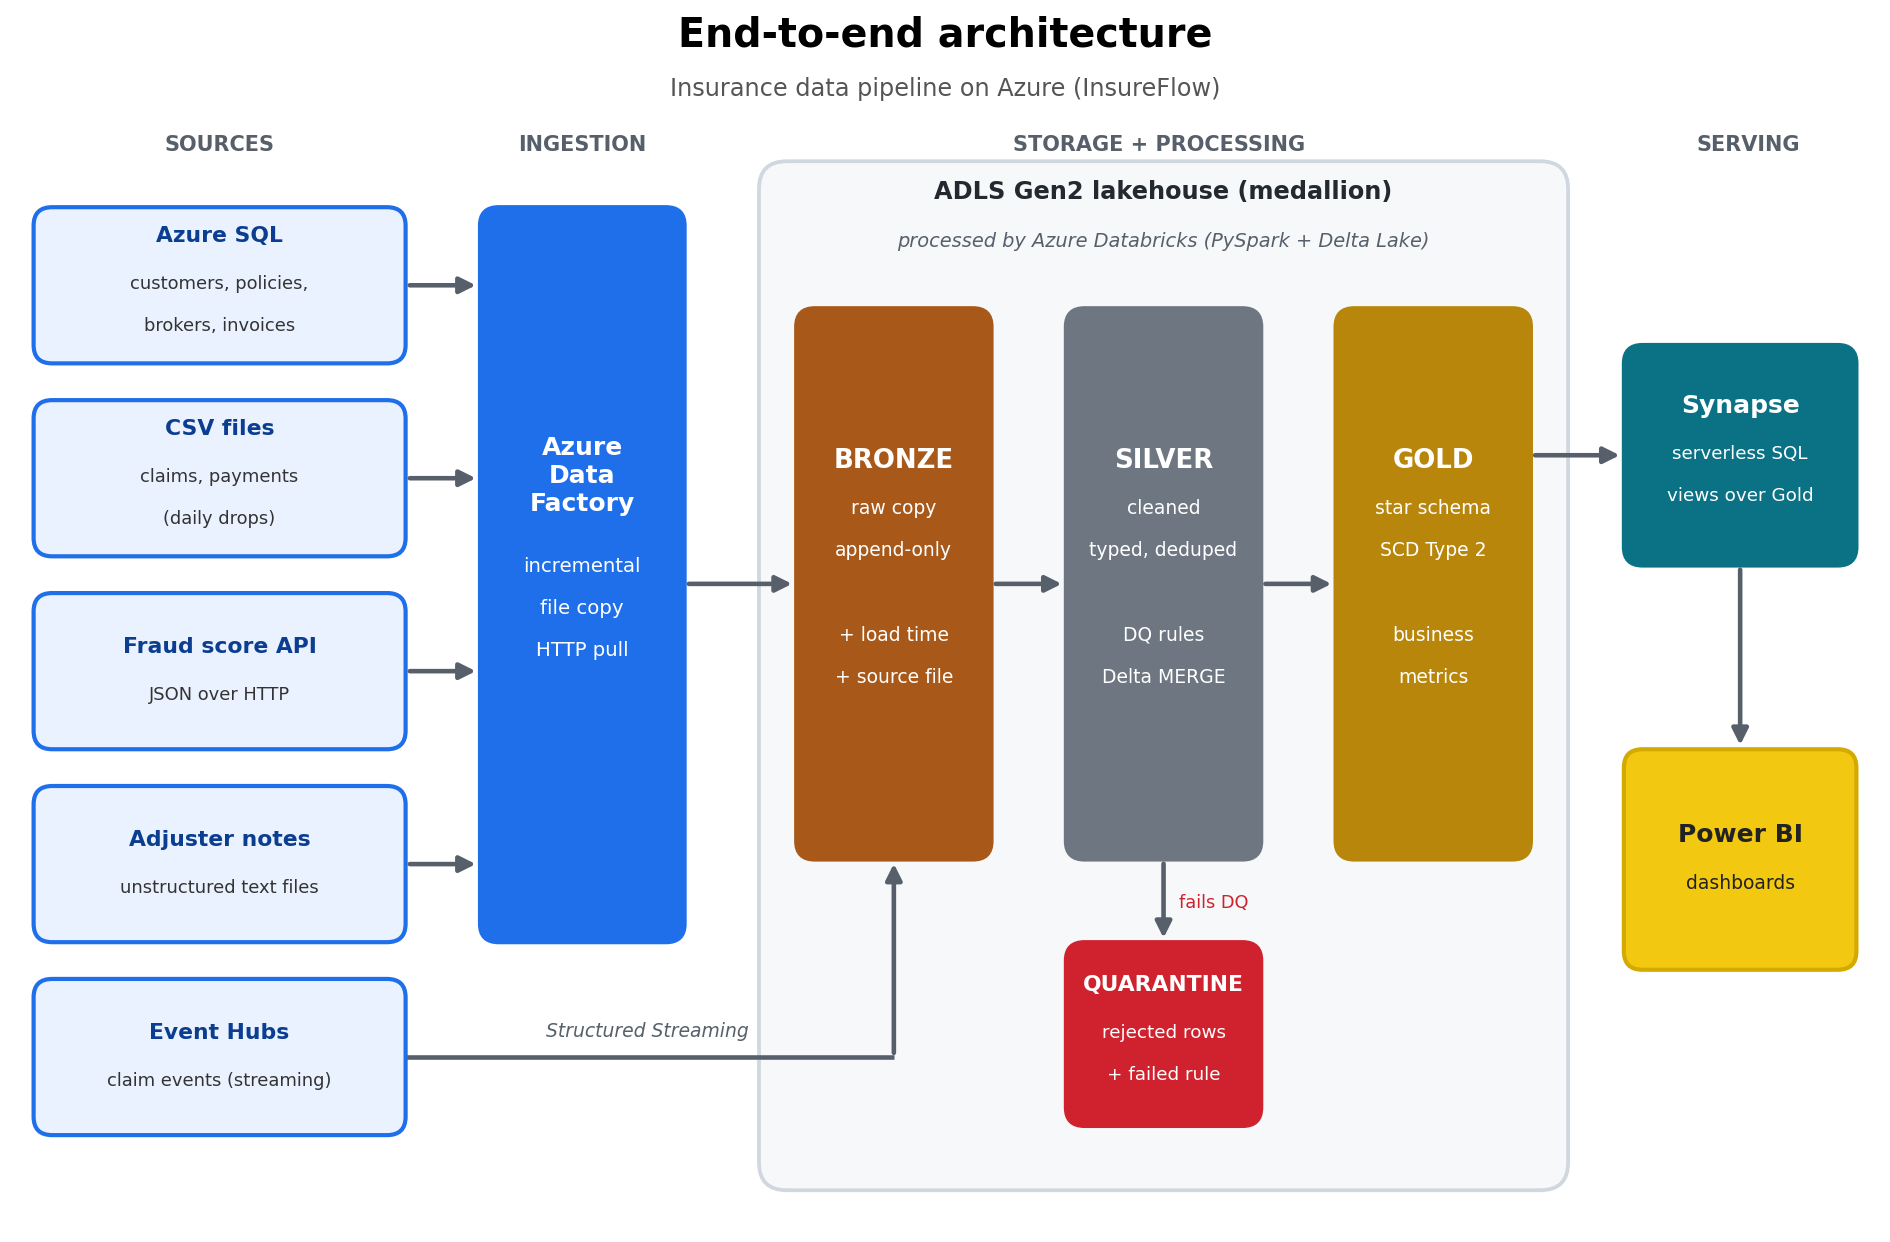
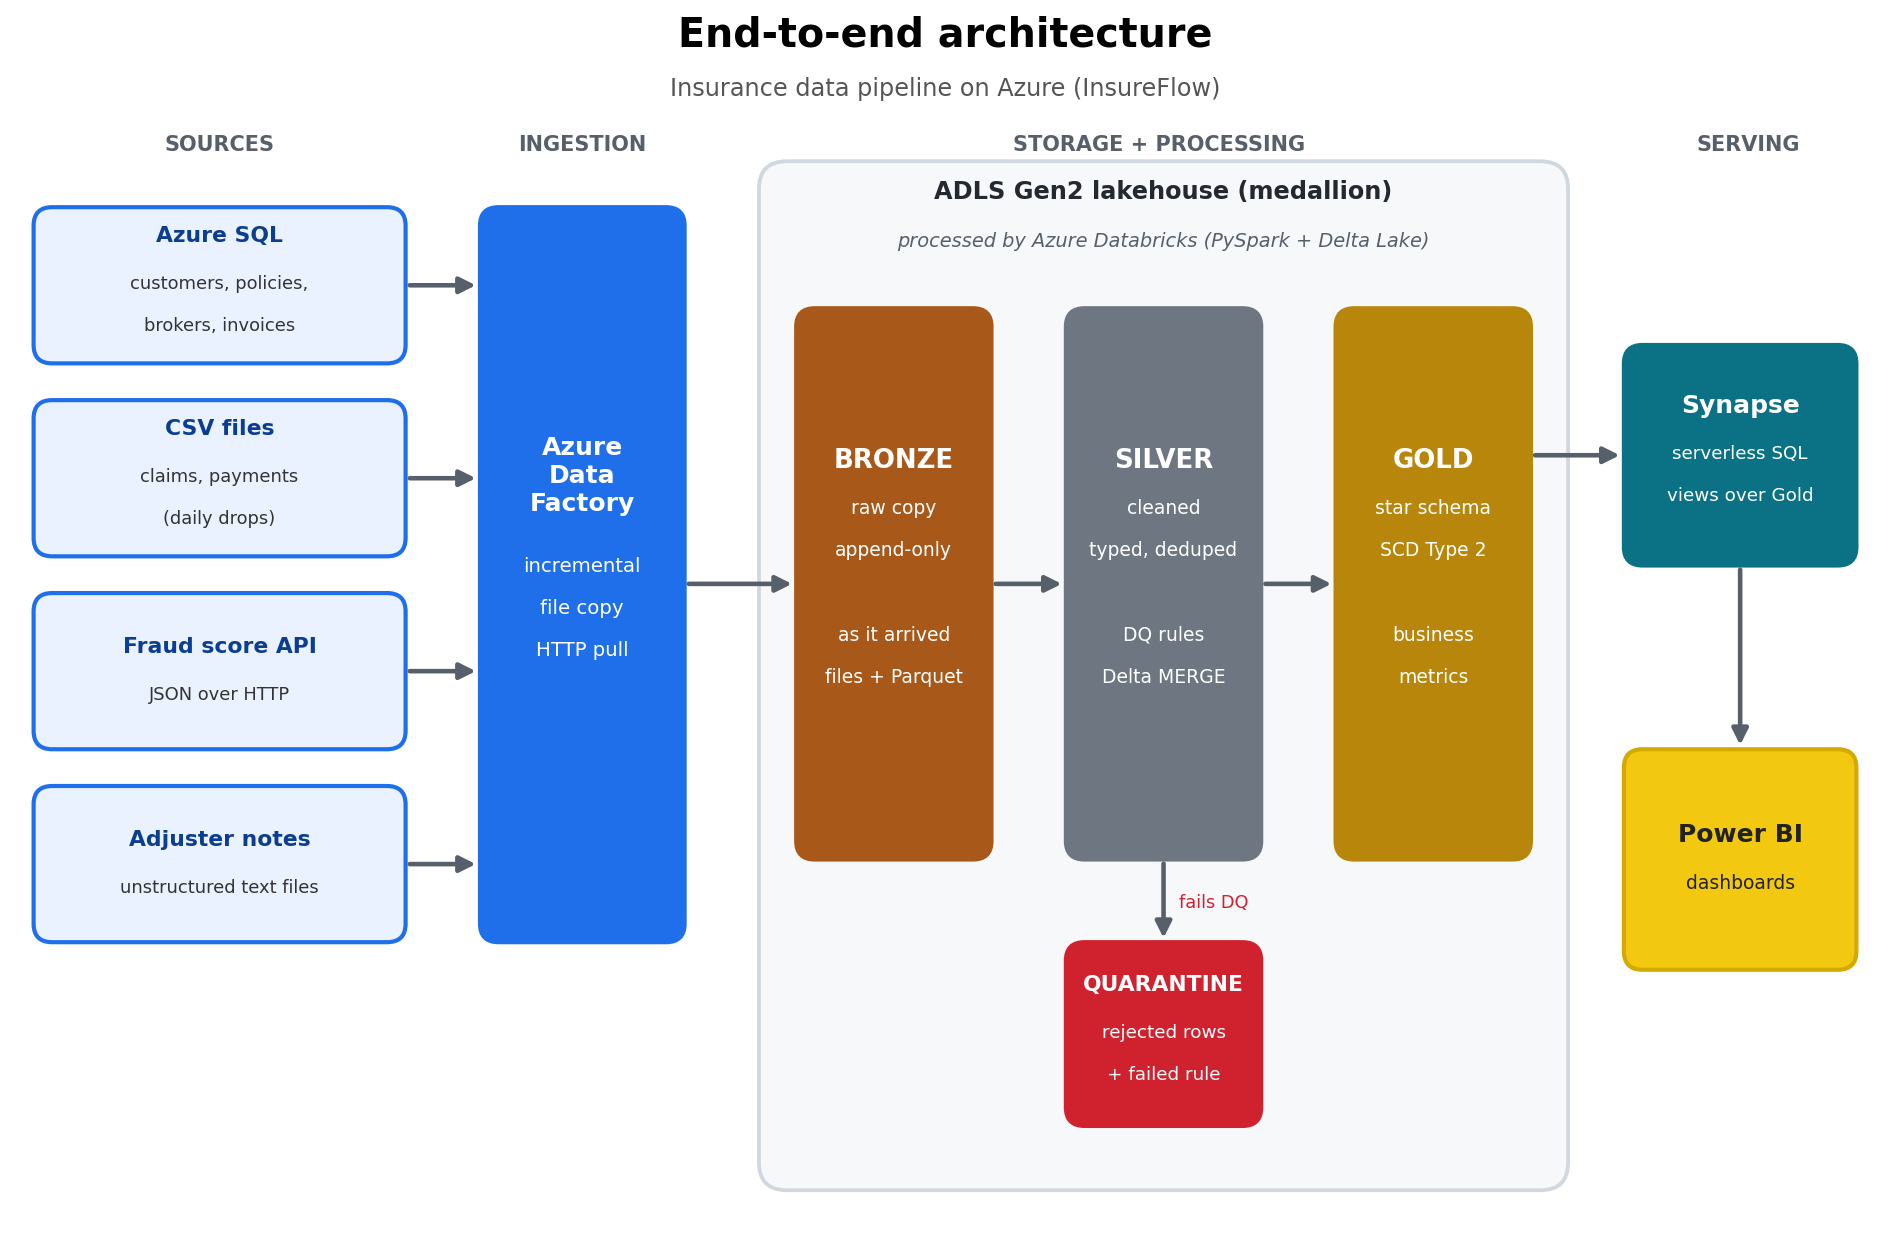
Upadated readme and runbook

diff --git a/README.md b/README.md
@@ -1,131 +1,185 @@
-# InsureFlow: End-to-End Insurance Data Pipeline on Azure
+# Insurance Lakehouse: End-to-End Insurance Data Pipeline on Azure
 
-*Medallion lakehouse with batch and streaming ingestion, data quality checks, and a star schema.*
+Medallion lakehouse with incremental loading, data quality checks, SCD Type 2, and a star schema, built on Azure Data Factory, Databricks, Delta Lake, and Synapse.
 
-An end-to-end data engineering project that ingests insurance data from structured, semi-structured, streaming, and unstructured sources into a medallion lakehouse on Azure, applies data quality rules and slowly changing dimensions, and serves business metrics (loss ratio, settlement time, collection rate, fraud risk).
+All data is **synthetic**. It is modeled on the kinds of tables and problems common in insurance.
 
-All data is **synthetic**. It is modeled on the kinds of tables and problems common in the insurance domain and contains no real company data.
+## Problem statement
 
-## Business problem
+A mid-size insurer sells auto, home, health, and life policies through brokers. Policy and billing data lives in a policy admin database, claims and payments arrive as daily files, fraud scores come from a third-party API, and adjusters write free-text notes.
 
-Claims, finance, and fraud teams rely on manual, inconsistent reports. This platform gives them one trusted, daily-refreshed source. Details in [`docs/business\_requirements.md`](docs/business_requirements.md).
+Each team (claims, finance, fraud) builds its own Excel reports from these separate sources. The data is duplicated, inconsistent, and often wrong (invalid dates, orphan records, claims approved for more than claimed). Reports disagree, take days to produce, and nobody can say how many records were bad or why.
+
+Goal: one automated, trusted pipeline that ingests all sources daily, cleans and validates them, records every rejected record with its reason, and serves business metrics: loss ratio, settlement time, collection rate, invoice aging, and fraud risk.
+
+Full requirements: [`docs/business_requirements.md`](docs/business_requirements.md)
 
 ## Architecture
 
-!\[Architecture](docs/images/architecture.png)
+![Architecture](docs/images/architecture.png)
 
-More diagrams (medallion detail, streaming, daily run) in [`docs/architecture.md`](docs/architecture.md).
+More diagrams (medallion detail, daily run) in [`docs/architecture.md`](docs/architecture.md).
 
-## Data model
+## Data sources
 
-Gold layer star schema (full source model and column details in [`docs/data\_model.md`](docs/data_model.md)):
+| Source | Type | How it is ingested | Approx. initial volume |
+|---|---|---|---|
+| Azure SQL: customers, policies, brokers, invoices | structured | ADF; incremental with a watermark on `last_modified` | 5,050 / 8,000 / 50 / 89,000 rows |
+| Claims and payments | structured, daily CSV files | ADF file copy, one file per day | 3,200 / 88,000 rows |
+| Fraud scores | semi-structured JSON | ADF HTTP copy (a mock API served from GitHub) | 3,000 records |
+| Adjuster notes | unstructured text files | ADF folder copy, parsed in Databricks | 800 files |
 
-!\[Gold star schema](docs/images/star\_schema.png)
+Simulated daily changes:1 to 5 July 2025.The date used for aging and open-claim age is 5 July 2025.
 
 ## Tech stack
 
-|Layer|Technology|
-|-|-|
-|Sources|Azure SQL, CSV files, REST API (JSON), Event Hubs, text files|
-|Storage|ADLS Gen2, Delta Lake|
-|Ingestion / orchestration|Azure Data Factory|
-|Transformation|Databricks (PySpark)|
-|Warehouse / serving|Azure Synapse (serverless SQL)|
-|Reporting|Power BI|
-|Security / monitoring|Key Vault, Azure Monitor|
+| Layer | Technology |
+|---|---|
+| Storage | ADLS Gen2, Delta Lake |
+| Ingestion / orchestration | Azure Data Factory |
+| Transformation | Azure Databricks (PySpark, Spark SQL) |
+| Serving | Azure Synapse serverless SQL |
+| Reporting | Power BI |
+| Authentication and Access | Managed Identity/Service Principal |
+| Secrets | Azure Key Vault (Databricks secret scope) |
+| Source control | GitHub |
 
 ## What this project demonstrates
 
-* Multi-source ingestion: database, files, and HTTP API
-* Incremental loading with a watermark, and idempotent re-runs
-* Medallion architecture with Delta `MERGE` for records that arrive again with new status
-* Data quality framework with a quarantine table and audit trail
-* SCD Type 2 and a dimensional (star schema) model
-* Handling schema drift without pipeline failure
-* Unstructured data: parsing adjuster notes (free text) into features such as red-flag keywords and amounts, and comparing them with the fraud API score
-* Streaming add-on: claim events via Event Hubs and Structured Streaming
-* Cost-aware cloud design
+- Ingestion from four kinds of sources: database, files, HTTP API, and unstructured text
+- Incremental loading with a watermark stored in a control table, advanced only after a successful copy
+- Medallion architecture: Bronze (raw as it arrived), Silver (clean), Gold (business model)
+- Delta MERGE where the newest version wins, so late data and re-runs are safe
+- A data quality framework with two kinds of rule: reject rules send a row to a Quarantine table with the failed rule, flag rules keep the row and record the issue
+- SCD Type 2 on customer, built from a history table, with point-in-time joins from the fact tables
+- A constellation schema : three fact tables with conformed dimensions
+- Schema drift handled on day 5, when the claims file gained an extra column
+- Unstructured data turned into features (amounts, police report, red-flag phrases), and compared against the fraud API score
+- Cost-aware design: serverless SQL, a small auto-stopping cluster
 
-## Repo structure
+## Layers
 
-```
-insurance-azure-data-pipeline/
-├── data\_generator/     synthetic data (history + 7 simulated days)
-├── sql/                Azure SQL DDL and helper scripts
-├── adf/                exported Data Factory pipelines (JSON)
-├── databricks/         notebooks: bronze, silver, gold, streaming, common
-├── synapse/            serverless SQL views
-├── tests/              data quality and unit tests
-└── docs/               architecture, data model, decisions, plan, runbook
-```
+| Layer | What it holds | Key rules |
+|---|---|---|
+| Bronze | Raw copy of every source | Never modified; Parquet for SQL tables, original files for the rest |
+| Silver | Cleaned, typed, deduplicated tables, plus `customers_history`, `_quarantine`, `_audit` | MERGE on the business key; reject and flag rules |
+| Gold | Star schema and business metrics | Rebuilt from Silver each run; SCD Type 2 on customer |
 
-## Key documents
+### Data quality rules (summary)
 
-* [Business requirements](docs/business_requirements.md)
-* [Architecture](docs/architecture.md)
-* [Data model](docs/data_model.md)
-* [Design decisions](docs/decisions.md)
-* [Project plan](docs/project_plan.md)
-* [Runbook](docs/runbook.md)
+| Table | Rejected to Quarantine | Flagged, kept |
+|---|---|---|
+| customers | missing id, date of birth in the future | missing or invalid email, credit score out of range |
+| policies | end date before start date, premium or coverage not above zero | unknown type or status, customer or broker not found |
+| invoices | due date before invoice date, amount not above zero | unknown status, policy not found |
+| claims | approved more than claimed, settled before filed, orphan policy, parent policy quarantined | unknown status, decision without settlement date |
+| payments | orphan invoice, parent invoice quarantined, amount not above zero | partial payment, paid without date |
+| fraud scores | score outside 0 to 1 | risk band does not match score |
+| adjuster notes | no claim id found | claim not in Silver, amount differs from claim, poor note quality |
+
+## Data model
+
+![Gold star schema](docs/images/star_schema.png)
+
+Details and the source-system model: [`docs/data_model.md`](docs/data_model.md)
+
+## Business metrics (defined in `databricks/gold/19_gold_metrics.py` and as Synapse views in `synapse/synapse_views.sql`):
+
+| Metric | Definition |
+|---|---|
+| Loss ratio | approved claim amount divided by premium received, by month and policy type |
+| Average settlement days | days from claim date to settlement, settled claims only |
+| Collection rate | invoices fully paid divided by invoices due; on time means paid within 5 days of the due date |
+| High-risk share | claims with risk band High divided by all claims, by broker region |
+| Open claims | Pending and Under Review claims, with average age in days |
+| Invoice aging | outstanding amount by bucket: Not yet due, 0-30, 31-60, 60+ |
+| Customer location at claim | the city on the claim date, using SCD Type 2 |
+| Note versus API | whether adjuster-note red flags agree with the fraud score |
+
+## How a day is processed
+
+1. Source changes land in Azure SQL, and the day's files are dropped in the lake
+2. `pl_daily_master` (ADF) runs two pipelines: incremental SQL to Bronze (Lookup the watermark, Copy rows changed up to the end of the run date, move the watermark) and daily files to Bronze (claims, payments, notes, fraud scores)
+3. The Silver notebooks are run for that day: clean, check parents, apply rules, quarantine, MERGE
+4. Gold is rebuilt from Silver, and the Gold checks run
+
+Silver and Gold notebooks are run manually after the ADF run (see Limitations).
+
+## Results
+
+- Rows loaded into Bronze (initial load): customers 1,000, policies 1,500, invoices 4,200, claims 600, payments 3,800, notes 900
+- Duplicate customer rows removed in Silver: 37
+- Rows sent to Quarantine (initial load): policies 42, invoices 65, claims 28, payments 51
+- Rows changed per simulated day (customers, policies, invoices, claims): ~25 customers, ~40 policies, ~60 invoices, ~18 claims
+- Days loaded: 5
+- Re-run test: a day was re-run and Silver counts did not change
+- Gold checks: 12 of 12 checks PASS (row counts match Silver, unique keys, one current row per customer, no gaps in customer history)
+- Example of SCD Type 2: customer C00412 moved from Pune to Bengaluru on 2026-11-04, and both rows are kept
+- Metric highlight: Claims loss ratio of 62.4% (total claims paid ÷ total premiums invoiced)
 
 ## Status
 
-\- \[x] Business requirements and data generator
-
-\- \[x] Azure setup (ADLS, Azure SQL, Data Factory) and initial load
-
-\- \[x] Initial ingestion into Bronze (SQL tables, CSV files, adjuster notes, fraud API)
-
-\- \[ ] Incremental loads (watermark) and daily simulation
-
-\- \[ ] Silver layer: cleaning, DQ, quarantine, MERGE
-
-\- \[ ] Gold layer: star schema, SCD2, metrics
-
-\- \[ ] Synapse serving layer
-
-\- \[ ] Streaming add-on
-
-\- \[ ] Power BI dashboardResults
-
-*To be filled with measured numbers after the runs (rows processed, records quarantined, load times).*
-
-
-
-*## Progress: initial ingestion (done)*
-
-
-
-*Four Azure Data Factory pipelines load data into the Bronze layer:*
-
-
-
-*| Pipeline | Source | Destination |*
-
-*| pl\_load\_sql\_initial | CSV files in ADLS | Azure SQL tables |*
-
-*| pl\_ingest\_sql\_to\_bronze | Azure SQL | Bronze (Parquet) |*
-
-*| pl\_ingest\_files\_to\_bronze | Claims, payments, adjuster notes | Bronze (as-is) |*
-
-*| pl\_ingest\_fraud\_api | Fraud score API (HTTP, JSON) | Bronze |*
-
-
-
-*Rows loaded into Azure SQL: brokers 50, customers 5,050, policies 8,000, invoices 89395*
-
-
-
-## Run it yourself
-
-```
-cd data\_generator
-python generate\_insureflow\_data.py
-```
-
-Then follow [`docs/runbook.md`](docs/runbook.md). Deployment steps will be added as each phase is completed.
+- [x] Business requirements and synthetic data generators
+- [x] Azure setup (ADLS Gen2, Azure SQL, Data Factory, Key Vault, Databricks, Synapse)
+- [x] Initial ingestion into Bronze (SQL tables, CSV files, adjuster notes, fraud API)
+- [x] Incremental loading with a watermark (5 of 7 simulated days)
+- [x] Silver layer: cleaning, data quality, quarantine, MERGE
+- [x] Gold layer: star schema, SCD Type 2, metrics
+- [x] Synapse serverless views
+- [X] Power BI dashboard (tick when the screenshot is added)
 
 ## Lessons learned
 
-*Added as the build progresses.*
+- **"Succeeded" does not mean "landed where I expected."** A copy activity wrote to the wrong container and still reported success. I now check the destination, not only the status.
+- **Lake paths are case-sensitive.** `Payments` and `payments` are different folders.
+- **Dynamic content needs careful quoting.** A lost closing quote in an ADF query broke the watermark lookup; building the query with `concat` fixed it.
+- **A watermark needs an upper bound.** Some source rows carried timestamps later than the load date, so using the maximum timestamp would have skipped days. Bounding each run by its run date fixed it.
+- **Joins can silently multiply rows.** Notes were summarised to one row per claim before joining, and every fact table is checked against its Silver row count.
+
+## Limitations
+
+- Synthetic data at a small scale; no real-time
+- Silver and Gold are run manually after the ADF run, and there is no scheduled trigger
+- Adjuster notes are parsed with simple rules (regular expressions and keywords), not a language model
+
+## Future improvements
+
+- Trigger Silver and Gold from Data Factory with a Databricks notebook activity and a schedule
+- Capture new columns automatically instead of ignoring them (schema evolution)
+- Use a language model to analyse adjuster notes
+- Add monitoring alerts, Unity Catalog, and CI/CD
+
+## Repository structure
+
+```
+insurance-azure-data-pipeline/
+├── data_generator/   synthetic data: history, daily batches, adjuster notes
+├── mock_api/         fraud score JSON files served as a mock REST API
+├── sql/              Azure SQL setup (tables, watermark table and procedure)
+├── adf/              exported Data Factory pipelines (ARM template)
+├── databricks/
+│   ├── common/       shared settings and helper functions
+│   ├── silver/       Silver notebooks (01 to 10)
+│   └── gold/         Gold notebooks (00 to 19, including checks and metrics)
+├── synapse/          serverless SQL views and metric views
+└── docs/             requirements, architecture, data model, decisions, runbook, images
+```
+
+## Documentation
+
+- [Business requirements](docs/business_requirements.md)
+- [Architecture](docs/architecture.md)
+- [Data model](docs/data_model.md)
+- [Design decisions](docs/decisions.md)
+- [Project plan](docs/project_plan.md)
+- [Runbook](docs/runbook.md)
+
+## Run it yourself
+
+1. Generate the data: `cd data_generator`, then `python generate_insureflow_data.py`, `python generate_adjuster_notes.py`
+2. Create the Azure resources (ADLS Gen2 with containers `raw`, `bronze`, `silver`, `gold`; Azure SQL; Data Factory; Key Vault; Databricks; Synapse)
+3. Create the tables with the scripts in `sql/`, and load the initial files
+4. Import `adf/` into Data Factory and run the initial and daily pipelines
+5. Run the notebooks in `databricks/silver` and then `databricks/gold`
+6. Create the views in `synapse/synapse_views.sql`
 

diff --git a/docs/runbook.md b/docs/runbook.md
@@ -10,9 +10,23 @@
 ## Re-running a day
 Safe by design (MERGE). Re-trigger the same date and confirm row counts are unchanged.
 
+Check before and after the re-run:
+- Silver row counts per table are identical
+- Audit table shows a new run entry for the date, with the same rows read and a MERGE that updated 0 new rows
+- Quarantine count for that date has not doubled
+- Gold DQ checks still show 12 of 12 PASS
+
 ## When something fails
 Record here: symptom, cause, fix. (Day 5 schema drift is the first planned incident.)
 
 | Date | Symptom | Cause | Fix |
 |---|---|---|---|
-| | | | |
+| 2026-11-02 | ADF pipeline for Day 2 succeeded but claims count in Bronze was 0 | Pipeline was triggered before the claims file finished uploading to `raw`, so the copy step found nothing | Re-uploaded the file, re-triggered the same date. MERGE made the re-run safe. Added a check that fails the pipeline if the expected file is missing |
+| 2026-11-03 | 9 customer rows missing from the Day 3 incremental load | `last_modified` was null on those rows, so the watermark filter skipped them | Routed null `last_modified` rows to Quarantine with a rejection reason. Fixed the source rows and reprocessed them. Added a null check on the watermark column to the DQ report |
+| 2026-11-05 | Day 5 Silver claims job failed with a column mismatch error | Schema drift: the claims file arrived with a new column (`adjuster_region`) and `claim_amt` renamed to `claim_amount` | Kept Bronze as raw (schema merge enabled) so no data was lost. Updated the Silver mapping to read the new name and carry the new column. Re-ran Silver and Gold for Day 5. All 12 Gold checks passed afterwards |
+| 2026-11-05 | Re-run of Day 5 after the fix | Verification step | Silver counts matched the first successful run, confirming the MERGE is idempotent |
+
+## Lessons learned
+- Keep Bronze permissive and enforce schema in Silver, so drift never loses data
+- Validate that input files exist before triggering ADF
+- Log every incident here with the date, even if the fix was small

diff --git a/docs/business_requirements.md b/docs/business_requirements.md
@@ -1,4 +1,4 @@
-# InsureFlow: Business Requirements
+# Insurance Lakehouse: Business Requirements
 
 ## 1. Background
 A mid-size insurer (auto, home, health, life) runs a policy admin system on Azure SQL, receives claims and premium payments as daily file drops, and buys fraud scores from a third-party API. Reporting is manual (Excel), slow, and inconsistent across teams.
